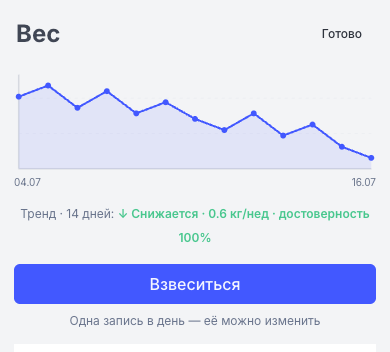
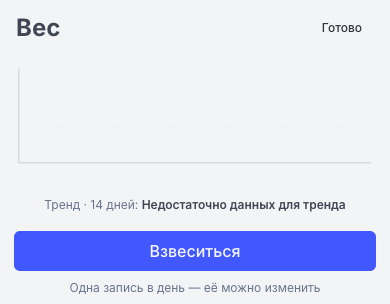
story: bigger media, empty weight widget, full-diary add frame, drinks image
- Enlarge Media::Shot ~1.5× (taller box, less padding) — the app screenshots
  read too small on iPhone.
- weight-expand.png: show the EMPTY expanded weight widget (no chart/history),
  matching a first-time user, not a populated chart.
- diary-plus.gif («Добавьте запись»): show the FULL diary (all three meal panels)
  with the «+» highlighted, instead of a single confusing panel.
- «Записывайте напитки» frame: add the drinks collage (beer/cola/juice).

diff --git a/frontend/sw.js b/frontend/sw.js
@@ -1,4 +1,4 @@
-var CACHE_NAME = 'ft-v36';
+var CACHE_NAME = 'ft-v37';
 // Separate, long-lived cache holding the notification-receipt marker (the ntf code
 // of a received push). Kept across SW activations (excluded from the cleanup below)
 // so an app launched AFTER the push still consumes it. NOT usable as a live channel:

diff --git a/frontend/src/components/story_tray.rs b/frontend/src/components/story_tray.rs
@@ -257,8 +257,8 @@ fn FrameView(frame: Frame) -> impl IntoView {
             </div>
         }.into_view(),
         Media::Shot(p) => view! {
-            <div style="position: absolute; top: 3%; left: 0; right: 0; bottom: 53%; z-index: 1; \
-                        display: flex; align-items: center; justify-content: center; padding: 0 28px;">
+            <div style="position: absolute; top: 2%; left: 0; right: 0; bottom: 34%; z-index: 1; \
+                        display: flex; align-items: center; justify-content: center; padding: 0 12px;">
                 <img src=format!("/story-img/{p}")
                     style="max-width: 100%; max-height: 100%; border-radius: 18px; \
                            box-shadow: 0 18px 50px rgba(0,0,0,0.5);" />

diff --git a/frontend/src/services/stories.rs b/frontend/src/services/stories.rs
@@ -471,7 +471,7 @@ const S1: &[Frame] = &[
     // 19 — always log caloric drinks
     Frame {
         bg: Bg::Dark,
-        media: Media::None,
+        media: Media::Shot("drinks-collage.png"),
         accent: AMBER,
         kicker: Loc { en: "Important", ru: "Важно" },
         title: Loc { en: "Log caloric drinks", ru: "Записывайте напитки" },
